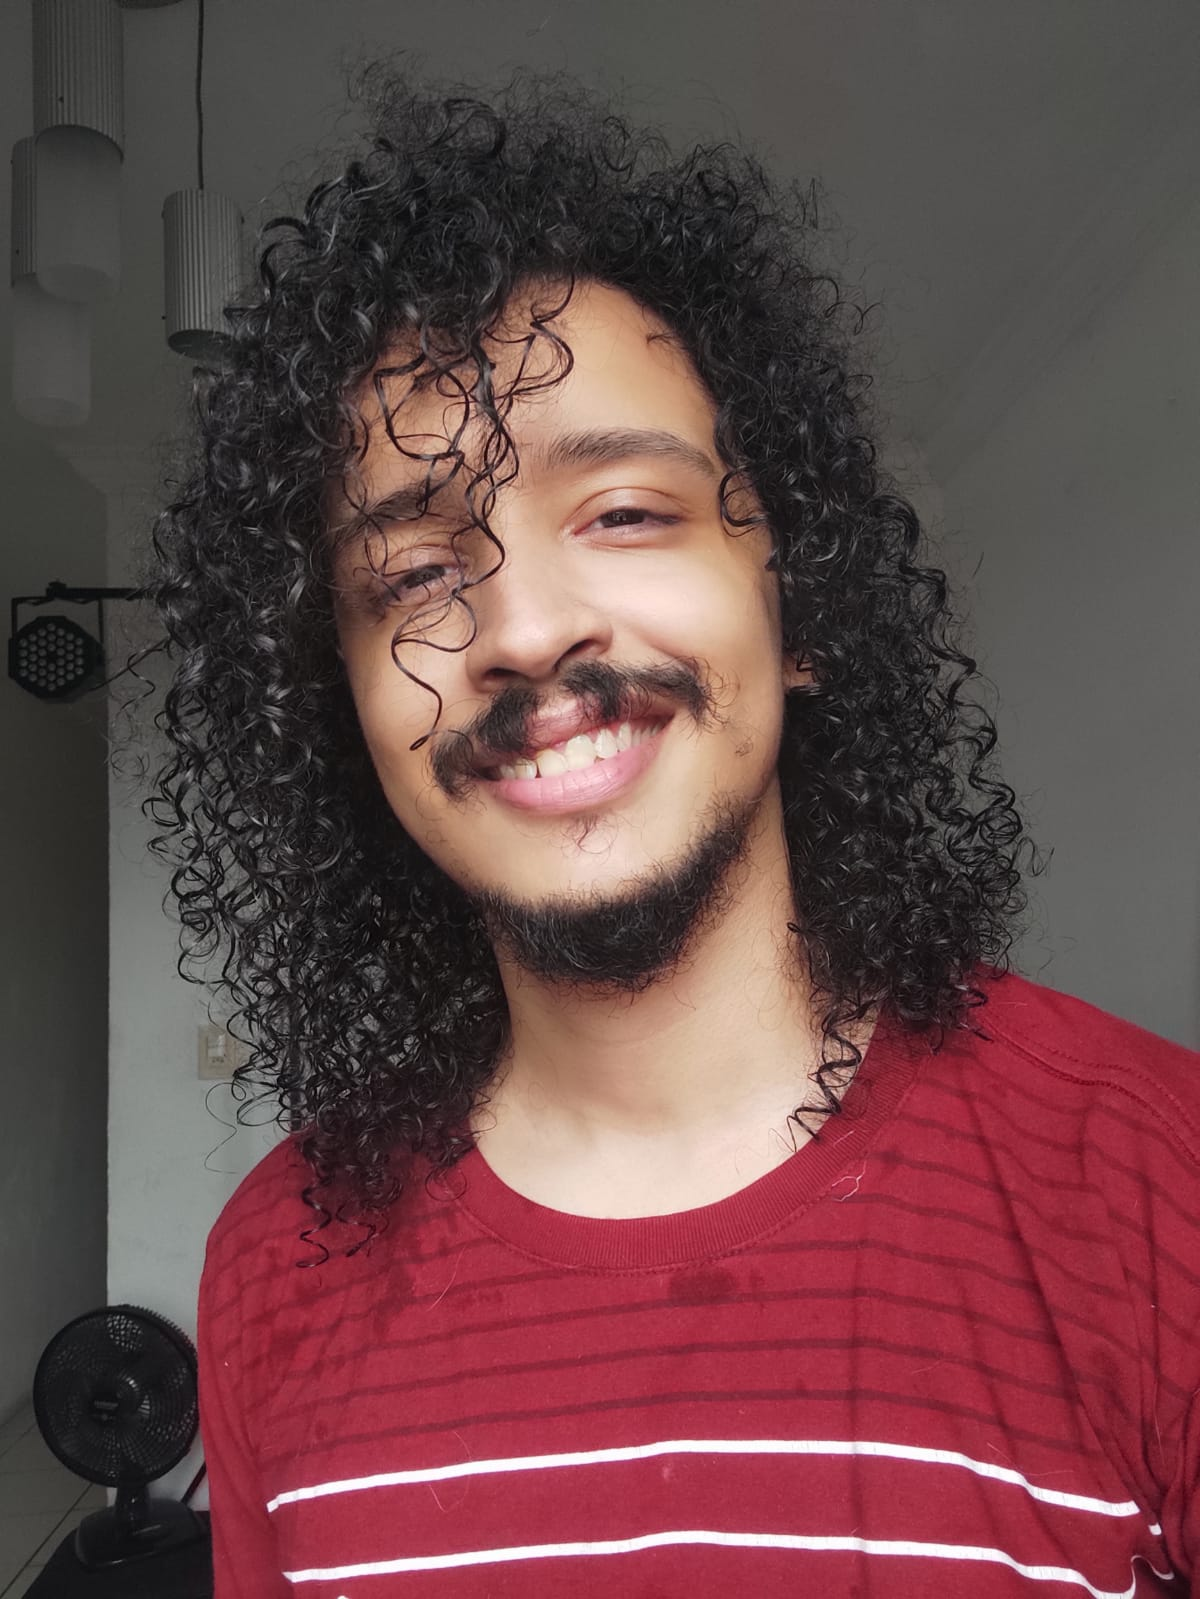
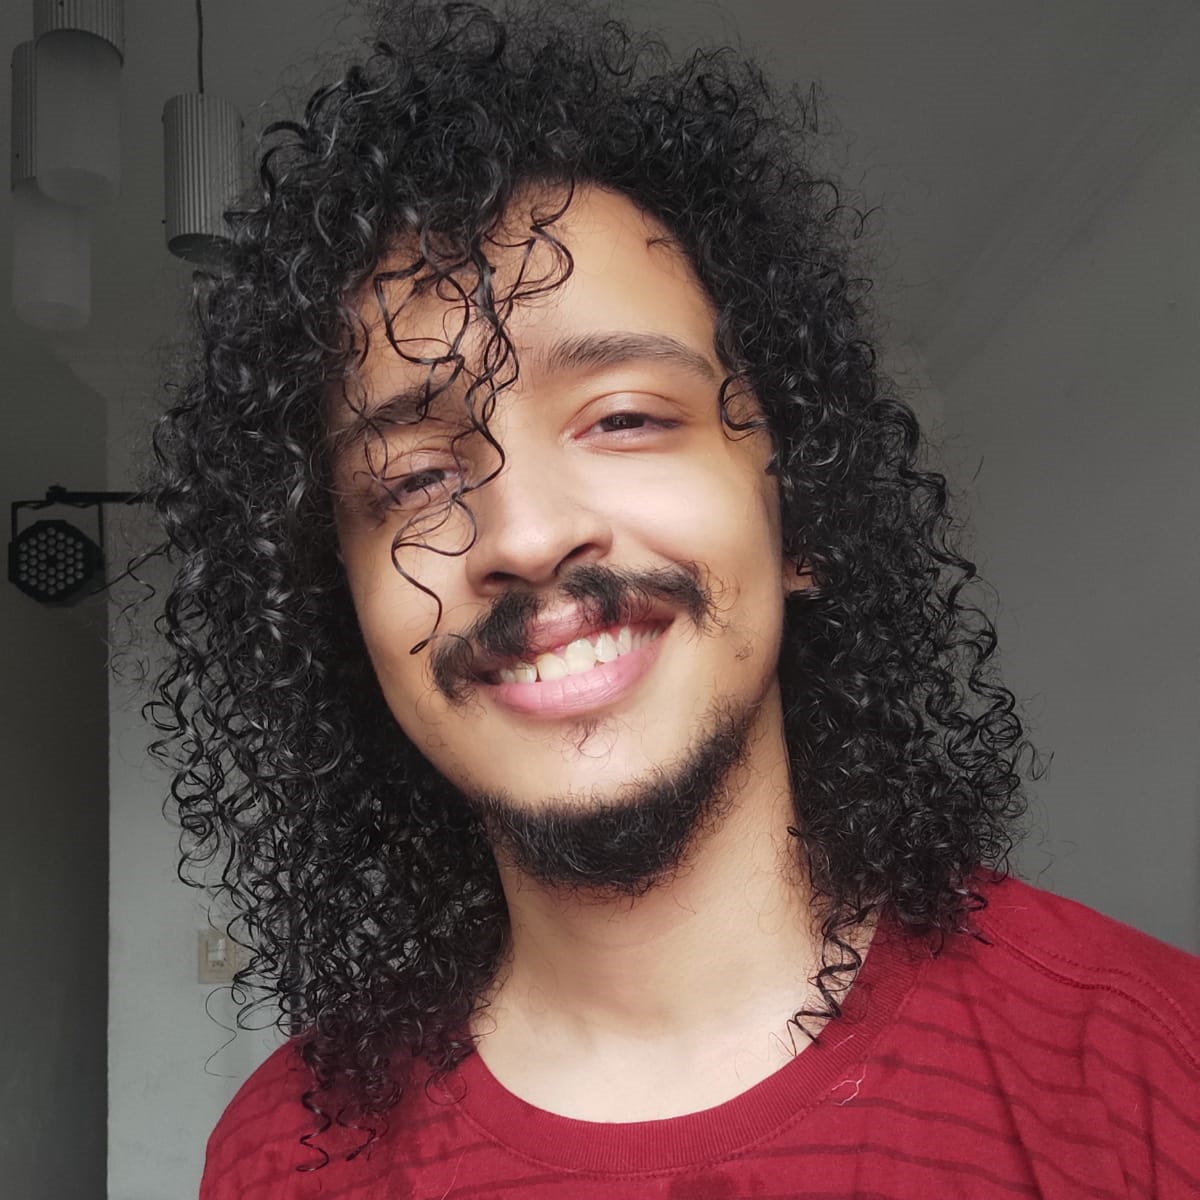
modifiquei o index.html, adicionei minha biografia e reescalei as imagens do Luan e da Izadora.

diff --git a/marcus/marcus.html b/marcus/marcus.html
@@ -9,13 +9,19 @@
         a{
             text-decoration: none;
             color: white;
+            transition: 0.3s;
         }
+        a:hover{
+            opacity: 0.8;
+            
+        }
+
         body{
             font-family:DejaVu Sans Mono;
 
         }
         header{
-            border: solid 5px black;
+            border: solid 3px black;
             background-color: #315EE5;
         }
         .âncoras{
@@ -34,7 +40,7 @@
             border:solid 3px white;
         }
         aside{
-            border: solid 5px black;
+            border: solid 3px black;
             border-top: 0px;
             height: 500px;
             width: fit-content;
@@ -56,10 +62,11 @@
             display:flex;
         }
         #bio{
-            border:solid 5px black;
+            border:solid 3px black;
             border-top:0px;
             border-left: 0px;
             width: 100%;
+            padding-left: 15px;
         }
         .logos{
             height: 35px;
@@ -95,10 +102,10 @@
         <p class="info">marcusfreirepaulino@gmail.com</p><br/>
         <p class="info">Trindade - PE</p>
         <div id="redesociais">
-            <img src="../logos/facebook-logo.png" alt="Facebook" class ="logos"/>
-            <img src="../logos/github-logo.png" alt="Github" class ="logos"/>
-            <img src="../logos/instagram-logo.png" alt="Instagram" class ="logos"/>
-            <img src="../logos/twitter-logo.png" alt="Twitter" class ="logos"/>
+           <a href="" target="_blank"> <img src="../logos/facebook-logo.png" alt="Facebook" class ="logos"/></a>
+            <a href="https://github.com/marcusfreirepaulino" target="_blank"><img src="../logos/github-logo.png" alt="Github" class ="logos"/></a>
+            <a href="https://instagram.com/marcusv.paulino" target="_blank"><img src="../logos/instagram-logo.png" alt="Instagram" class ="logos"/></a>
+           <a href="" target="_blank"><img src="../logos/twitter-logo.png" alt="Twitter" class ="logos"/></a>
 
 
         </div>
@@ -110,6 +117,15 @@
     <section id="bio">
         <article>
         <h1>Biografia</h1>
+        <p>
+            Meu nome é Marcus Vinicius, tenho 18 anos e moro na cidade de Trindade, no sertão do
+            Pernambuco e, hoje, sigo o objetivo de me tornar um desenvolvedor web. <br/>
+              Moro com meus avós e, desde abril de 2022, sou um aspirante na AlphaEdTech.
+        </p> <br />
+        <p>
+            Sou torcedor do Vasco da Gama e um apaixonado por música, futebol, matemática e xadrez.
+        </p>
+        
         </article>
     </section>
     </div> 

diff --git a/index.html b/index.html
@@ -24,29 +24,42 @@
             padding-inline: 100px;
         }
         img{
-            width: 300px;
-            height: 300px;
+            width: 200x;
+            height: 200px;
             display: block;
             margin-left: auto;
             margin-right: auto;
             border-radius: 50%;
         }
         .bloco-perfil:hover{
-            background-color: #4d4d4d;
+            opacity: 1;
+            transform: scale(1.2);
         }
         .bloco-perfil{
-            width: 400px;
-            height: 400px;
+            width: 200px;
+            height: 200px;
             border-radius: 50%;
+            opacity:0.8;
+            transition: 0.3s;
+
         }
         table{
             margin-left: auto;
             margin-right: auto;
-            margin-top: 200px;
+            margin-top: 75px;
+        }
+        header{
+            font-size: 25px;
+
         }
     </style>
 </head>
 <body>
+   <header>
+        <h1>Projeto da Equipe 7</h1>
+
+   </header>
+
     <div>
     <table>
         <tr>
